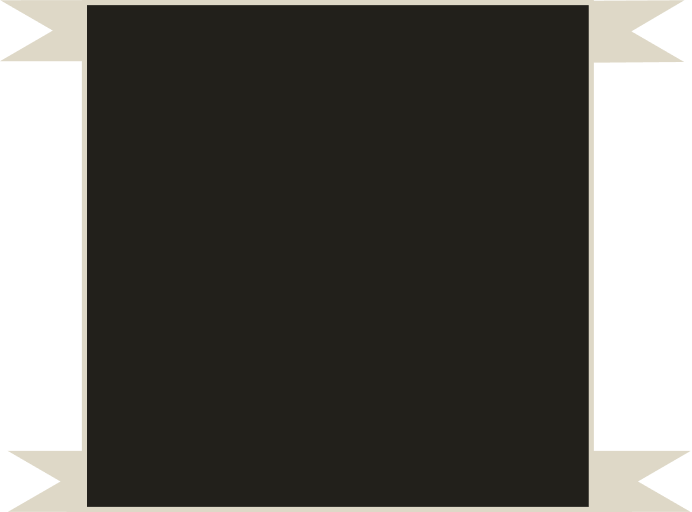
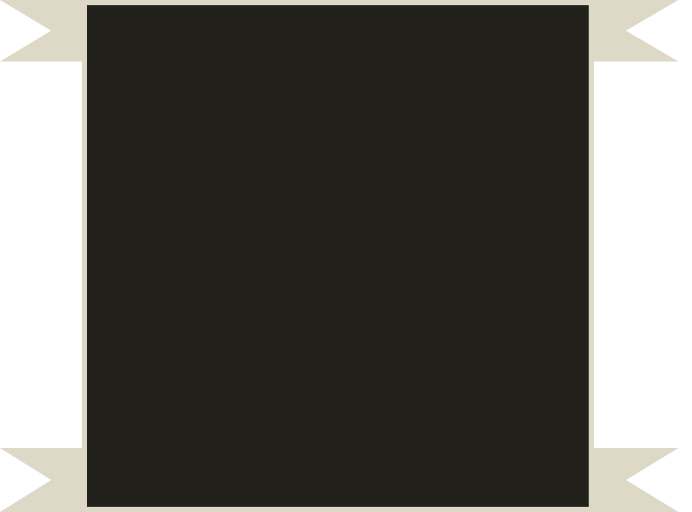
nine slice

diff --git a/html2/src/styles/index.css b/html2/src/styles/index.css
@@ -59,12 +59,23 @@ body::after {
 }
 
 .slice {
-    border: 10px solid transparent;
-    padding: 15px;
+    --slice-top: 62px;
+    --slice-right: 99px;
+    --slice-bottom: 62px;
+    --slice-left: 99px;
+
+    --frame-top: 24px;
+    --frame-right: 40px;
+    --frame-bottom: 24px;
+    --frame-left: 40px;
+
+    border-style: solid;
+    border-width: var(--frame-top) var(--frame-right) var(--frame-bottom) var(--frame-left);
     border-image-source: url("../../assets/img/nineslice.png");
-    /* border-image-repeat: round; */
-    border-image-slice: 10% 30% fill;
-    /* border-image-width: 20px; */
+    border-image-slice: 15% 15% fill;
+    /* border-image-slice: var(--slice-top) var(--slice-right) var(--slice-bottom) var(--slice-left) fill; */
+    border-image-width: var(--frame-top) var(--frame-right) var(--frame-bottom) var(--frame-left);
+    border-image-repeat: stretch;
 }
 
 .header {
